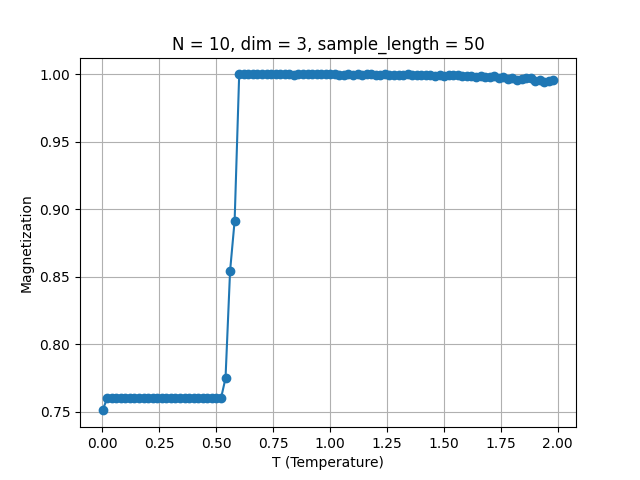
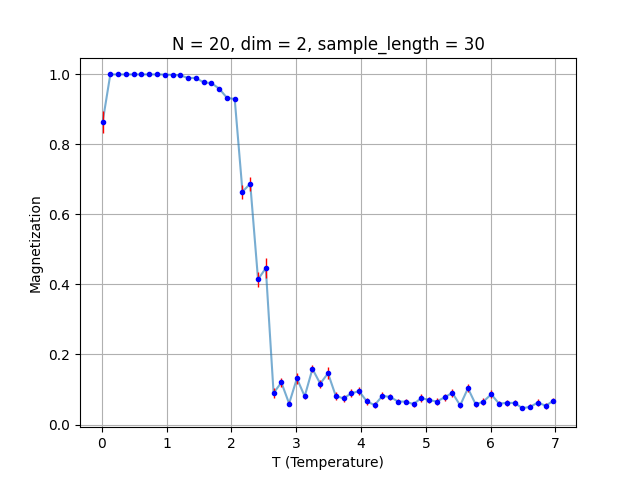
Improved graphics

diff --git a/main.py b/main.py
@@ -1,5 +1,6 @@
 from tracemalloc import start
 
+from matplotlib import container
 import numpy as np
 import matplotlib.pyplot as plt
 from ising import new_random_ising
@@ -71,11 +72,12 @@ def magnetization_graph():
     '''
 
     N = 20
-    dim = 3
-    sample_length = 20
+    dim = 2
+    sample_length = 30
 
     temps = np.arange(.01, 7.0, .12)
     magns = np.zeros_like(temps)
+    errors = np.zeros_like(temps)
     current_model = None
     for i, t in enumerate(temps):
         models = mcmc_sampling(
@@ -86,10 +88,25 @@ def magnetization_graph():
             initial_model = current_model,
         )
         current_model = models[-1]
-        magns[i] = np.mean([magnetization(model) for model in models])
+        magn_i = [magnetization(model) for model in models]
+        magns[i] = np.mean(magn_i)
+        errors[i] = np.std(magn_i) / np.sqrt(len(magn_i))
+
         print(f"Computed {(i + 1) / len(temps) * 100:.1f}%")
+
+    plt.plot(temps, magns, '-', alpha = 0.6)
+
+    plt.errorbar(
+        temps,
+        magns,
+        yerr = errors,
+        color = 'blue',
+        fmt = '.',
+        ecolor = 'red',
+        barsabove = False,
+        elinewidth = 1
+    )
     
-    plt.plot(temps, magns, marker = 'o')
     plt.xlabel('T (Temperature)')
     plt.ylabel('Magnetization')
     plt.title(f"N = {N}, dim = {dim}, sample_length = {sample_length}")